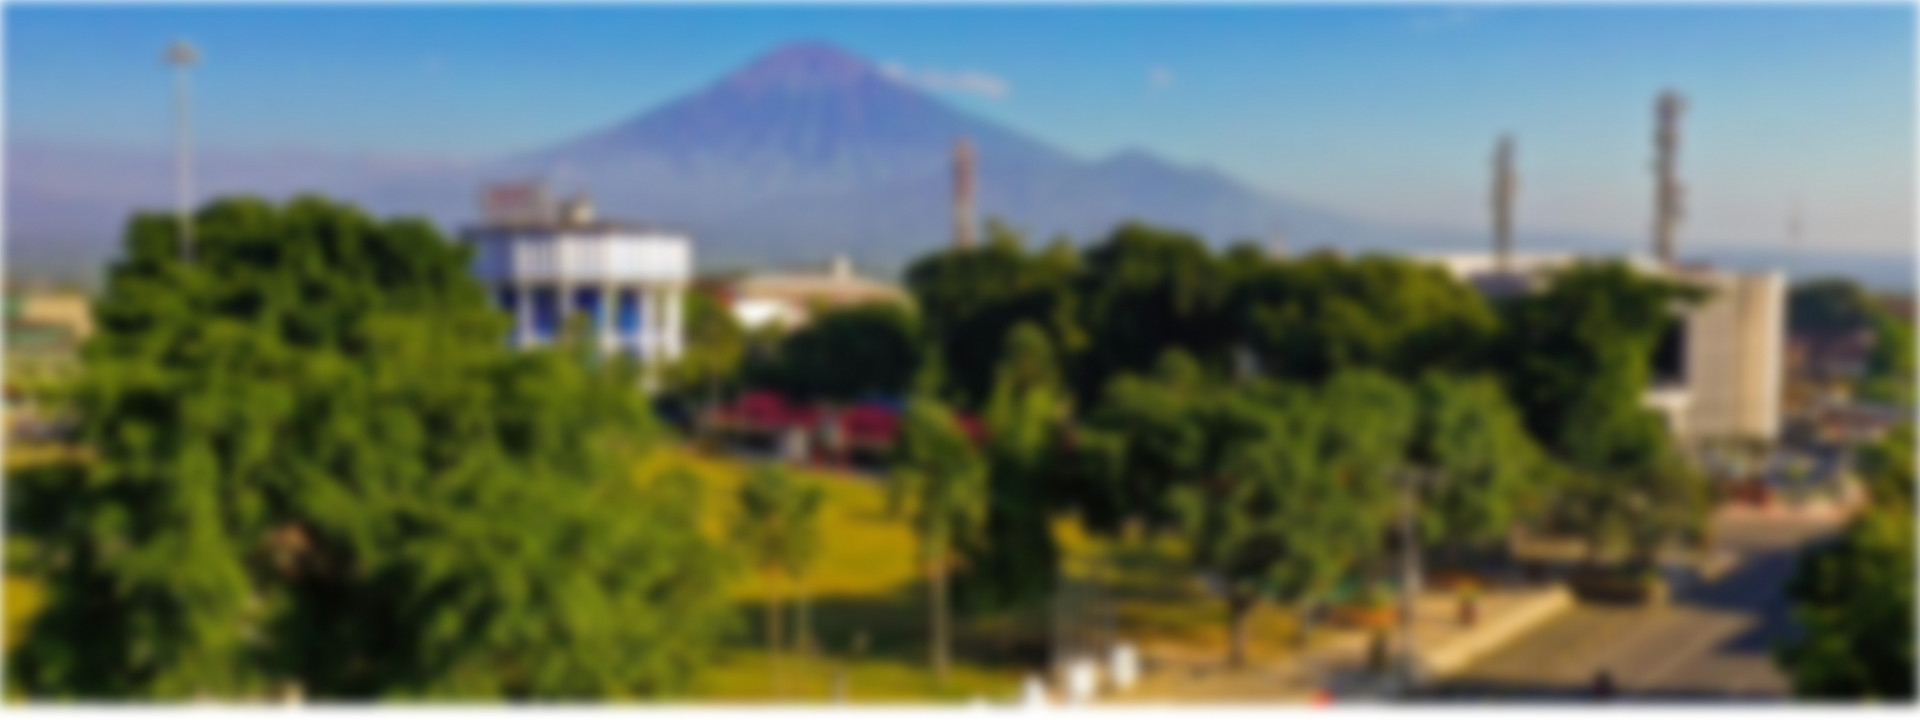
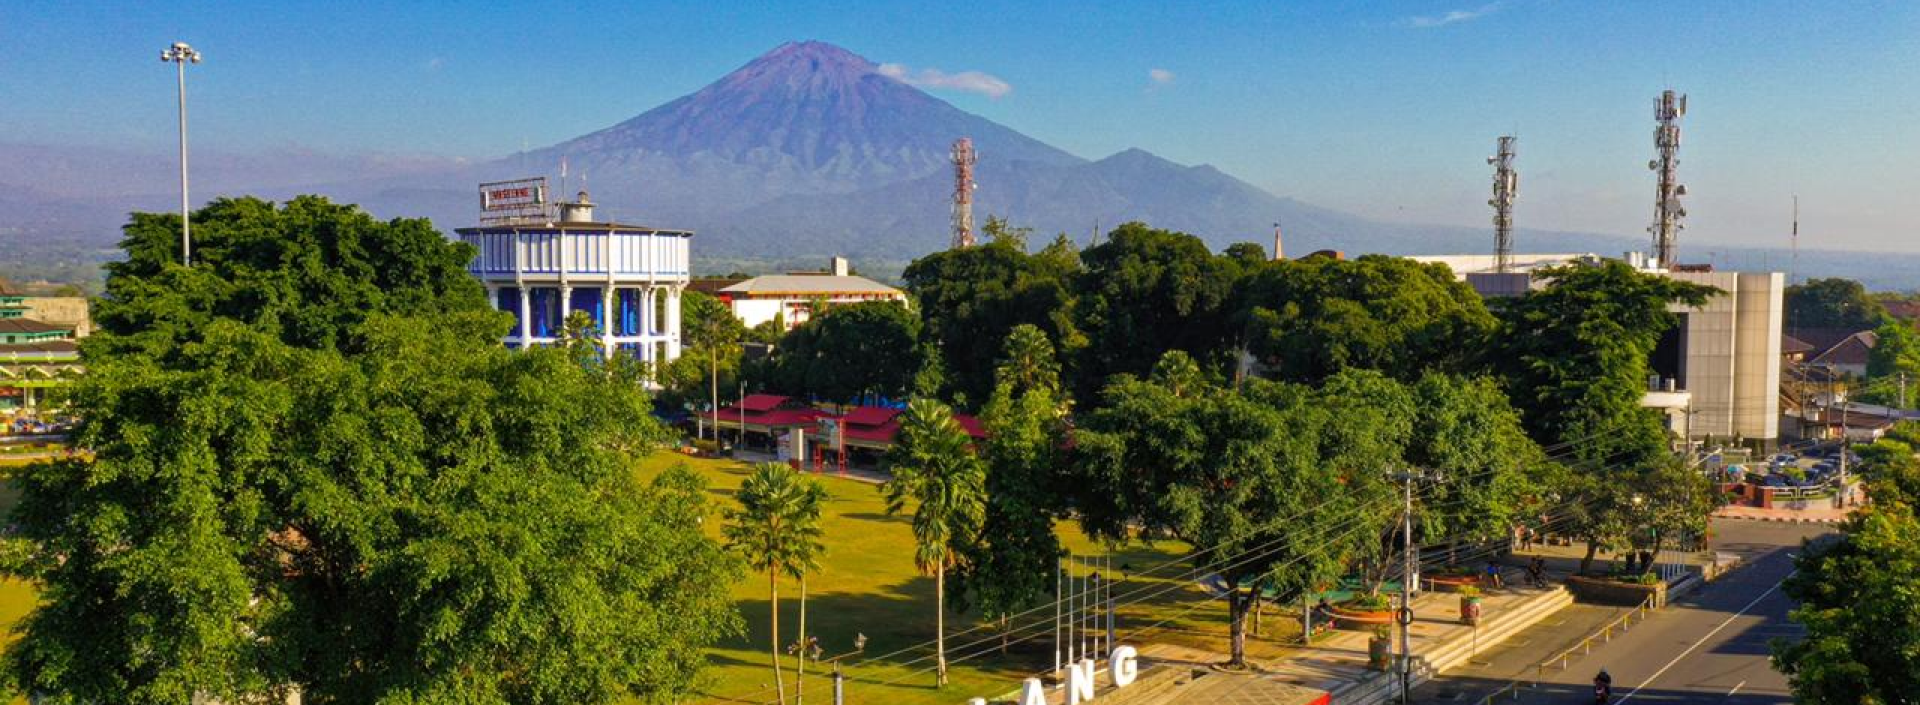
updated assets

diff --git a/quiz1/hometown.html b/quiz1/hometown.html
@@ -12,7 +12,11 @@
 </head>
 
 <body>
-    <nav class="bg-tertiary">
+    <div class="container-fluid position-absolute d-flex justify-content-center p-0">
+        <img class="hometown-img-top img-fluid" src="../Image/hometown-header.png" alt="">
+    </div>
+
+    <nav class="position-relative">
         <div class="container-fluid d-flex p-3 justify-content-center">
             <a href="profile.html"><img class="logo-sm" src="/Image/logo-white.svg" alt="logo-green"></a>
             <ul class="navbar-nav d-flex flex-row">
@@ -29,11 +33,18 @@
         </div>
     </nav>
 
+    <div class="position-relative container d-flex justify-content-center">
+        <div class="row d-flex flex-column">
+            <h1 class="mt-auto text-tertiary">Magelang</h1>
+        </div>
+    </div>
+
 
 
     <script src="https://cdn.jsdelivr.net/npm/bootstrap@5.2.1/dist/js/bootstrap.bundle.min.js"
         integrity="sha384-u1OknCvxWvY5kfmNBILK2hRnQC3Pr17a+RTT6rIHI7NnikvbZlHgTPOOmMi466C8"
         crossorigin="anonymous"></script>
+    <script src="../script.js"></script>
 </body>
 
 </html>

diff --git a/styles.css b/styles.css
@@ -92,7 +92,6 @@ body{
 .text-section-title{
     font-family: var(--display-font);
     font-weight: 500;
-    font-style: italic;
     font-size: 2.75rem;
     color: var(--secondary);
 }
@@ -104,4 +103,8 @@ body{
 
 .tourism-map{
     max-height: 75vh;
+}
+
+.hometown-img-top{
+    filter: blur(0px) brightness(50%);
 }

diff --git a/script.js b/script.js
@@ -1,0 +1,4 @@
+function formatHometown(){
+    var navbar = document.getElementById();
+    
+}
